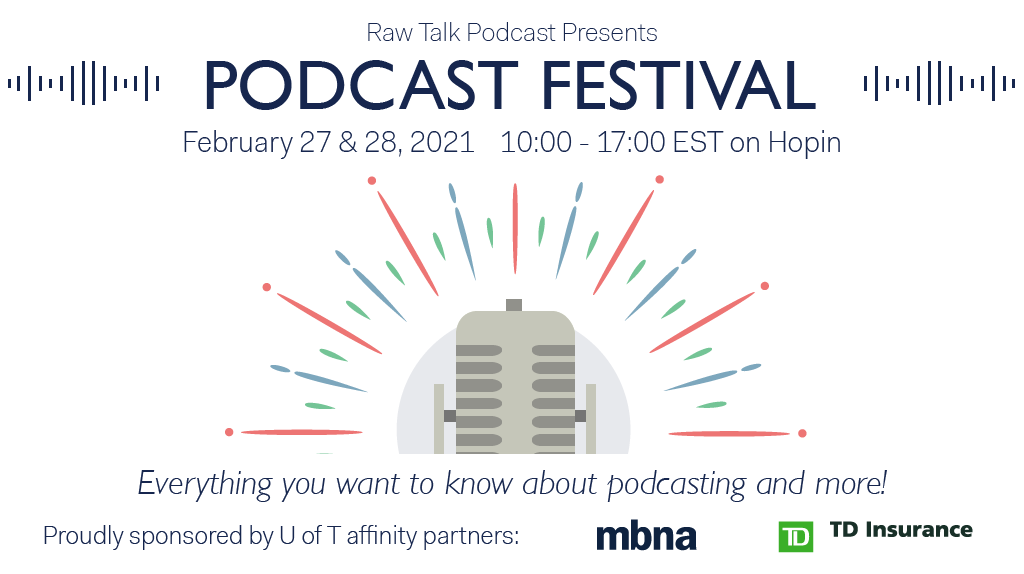
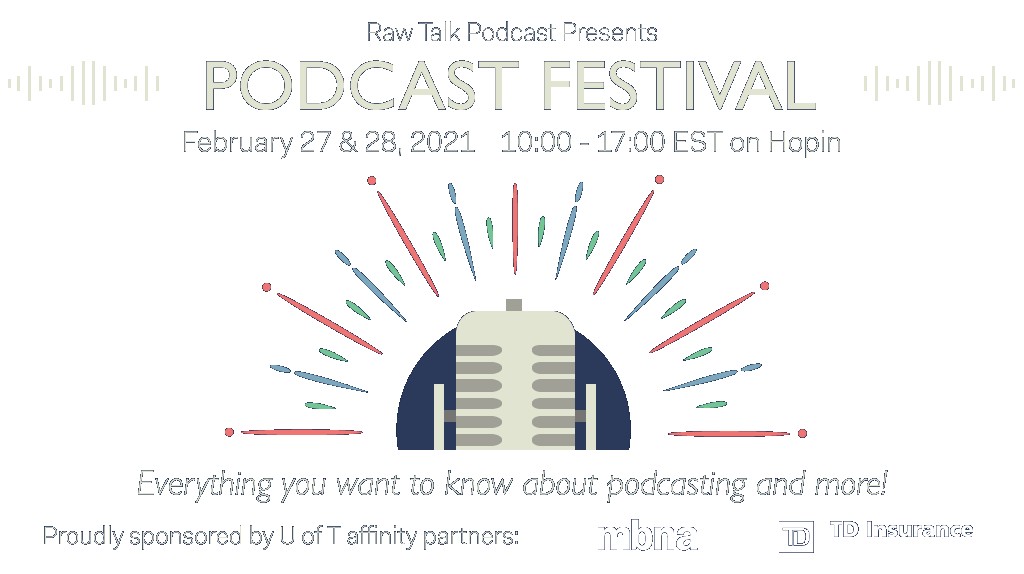
use transparent event images

diff --git a/web/events.html b/web/events.html
@@ -79,22 +79,26 @@
   <div class="row">
     <div class="tile-event img-link col-12 col-sm-12 col-sm-12 col-md-12 col-lg-6 col-xl-6">
       <a href="https://hopin.com/events/raw-talk-podcast-festival" target="_blank">
+        <div class="img-link-hover"></div>
         <img class="episode-img-tile" src="/img/event/podfest/banner.png"/>
       </a>
     </div>
     <div class="tile-event img-link col-12 col-sm-12 col-sm-12 col-md-12 col-lg-6 col-xl-6">
       <a href="event/covid-19">
+        <div class="img-link-hover"></div>
         <img class="episode-img-tile" src="/img/event/covid-19/banner.png"/>
       </a>
     </div>
     <div class="tile-event img-link col-12 col-sm-12 col-sm-12 col-md-12 col-lg-6 col-xl-6">
       <a href="event/ai">
+        <div class="img-link-hover"></div>
         <img class="episode-img-tile" src="/img/event/ai/banner.png"/>
       </a>
     </div>
     <div class="tile-event img-link col-12 col-sm-12 col-sm-12 col-md-12 col-lg-6 col-xl-6">
       <a href="event/scituation">
-        <img class="episode-img-tile" src="/img/event/scituation/banner.jpg"/>
+        <div class="img-link-hover"></div>
+        <img class="episode-img-tile" src="/img/event/scituation/banner.png"/>
       </a>
     </div>
   </div>

diff --git a/web/event/scituation.html b/web/event/scituation.html
@@ -8,7 +8,7 @@
   <meta property="og:url" content="http://www.rawtalkpodcast.com/event/scituation">
   <meta property="og:title" content="It's not You, It's the SCItuation">
   <meta property="og:description" content="">
-  <meta property="og:image" content="http://www.rawtalkpodcast.com/img/event/scituation/banner.jpg">
+  <meta property="og:image" content="http://www.rawtalkpodcast.com/img/event/scituation/banner.png">
   <meta property="og:image:width" content="512">
   <meta property="og:image:height" content="287">
   <link rel="stylesheet" href="/css/bootstrap.min.css"/>
@@ -78,7 +78,7 @@
 <div class="container">
   <div class="row justify-content-center">
     <div class="col-12 col-sm-12 col-md-12 col-lg-10 col-xl-8 center">
-      <img src="/img/event/scituation/banner.jpg" width=100%/>
+      <img src="/img/event/scituation/banner.png" width=100%/>
     </div>
     <div class="section col-12 col-sm-12 col-md-12 col-lg-10 col-xl-8 center">
       <p>

diff --git a/src/templates/events.html b/src/templates/events.html
@@ -5,12 +5,14 @@
     <div class="tile-event img-link col-12 col-sm-12 col-sm-12 col-md-12 col-lg-6 col-xl-6">
       <a href="https://hopin.com/events/raw-talk-podcast-festival" target="_blank">
         <img class="episode-img-tile" src="/img/event/podfest/banner.png"/>
+        <div class="img-link-hover"></div>
       </a>
     </div>
     {% for event in events %}
     <div class="tile-event img-link col-12 col-sm-12 col-sm-12 col-md-12 col-lg-6 col-xl-6">
       <a href="{{event.href}}">
         <img class="episode-img-tile" src="/img/event/{{event.slug}}/{{event.img}}"/>
+        <div class="img-link-hover"></div>
       </a>
     </div>
     {% endfor %}
